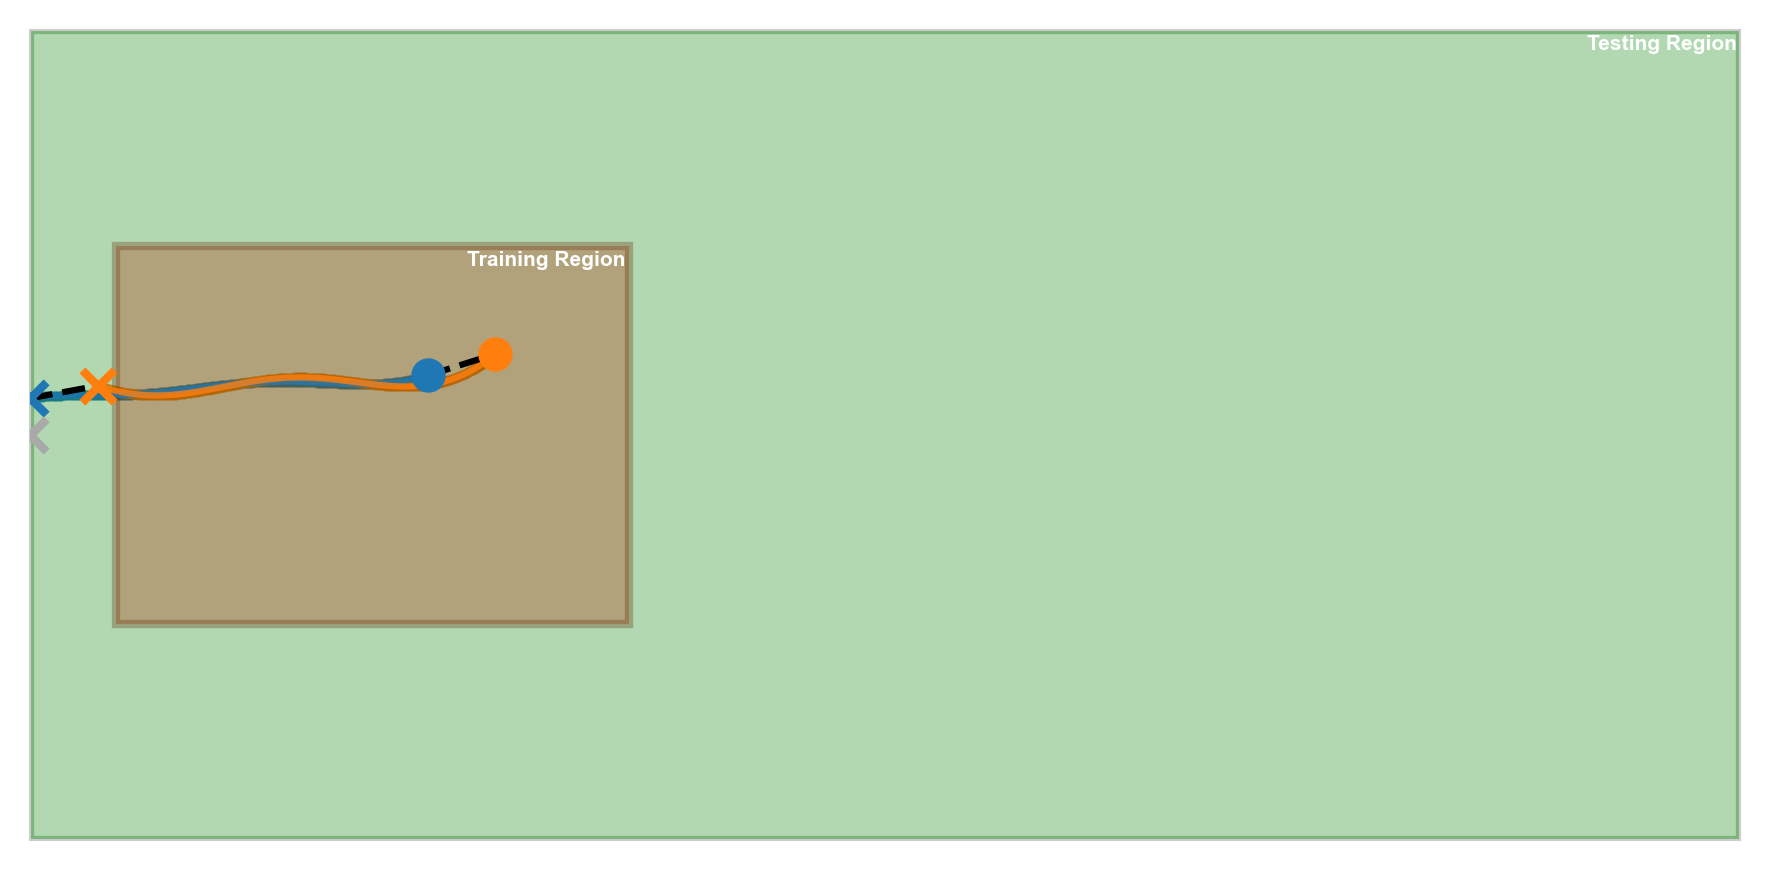
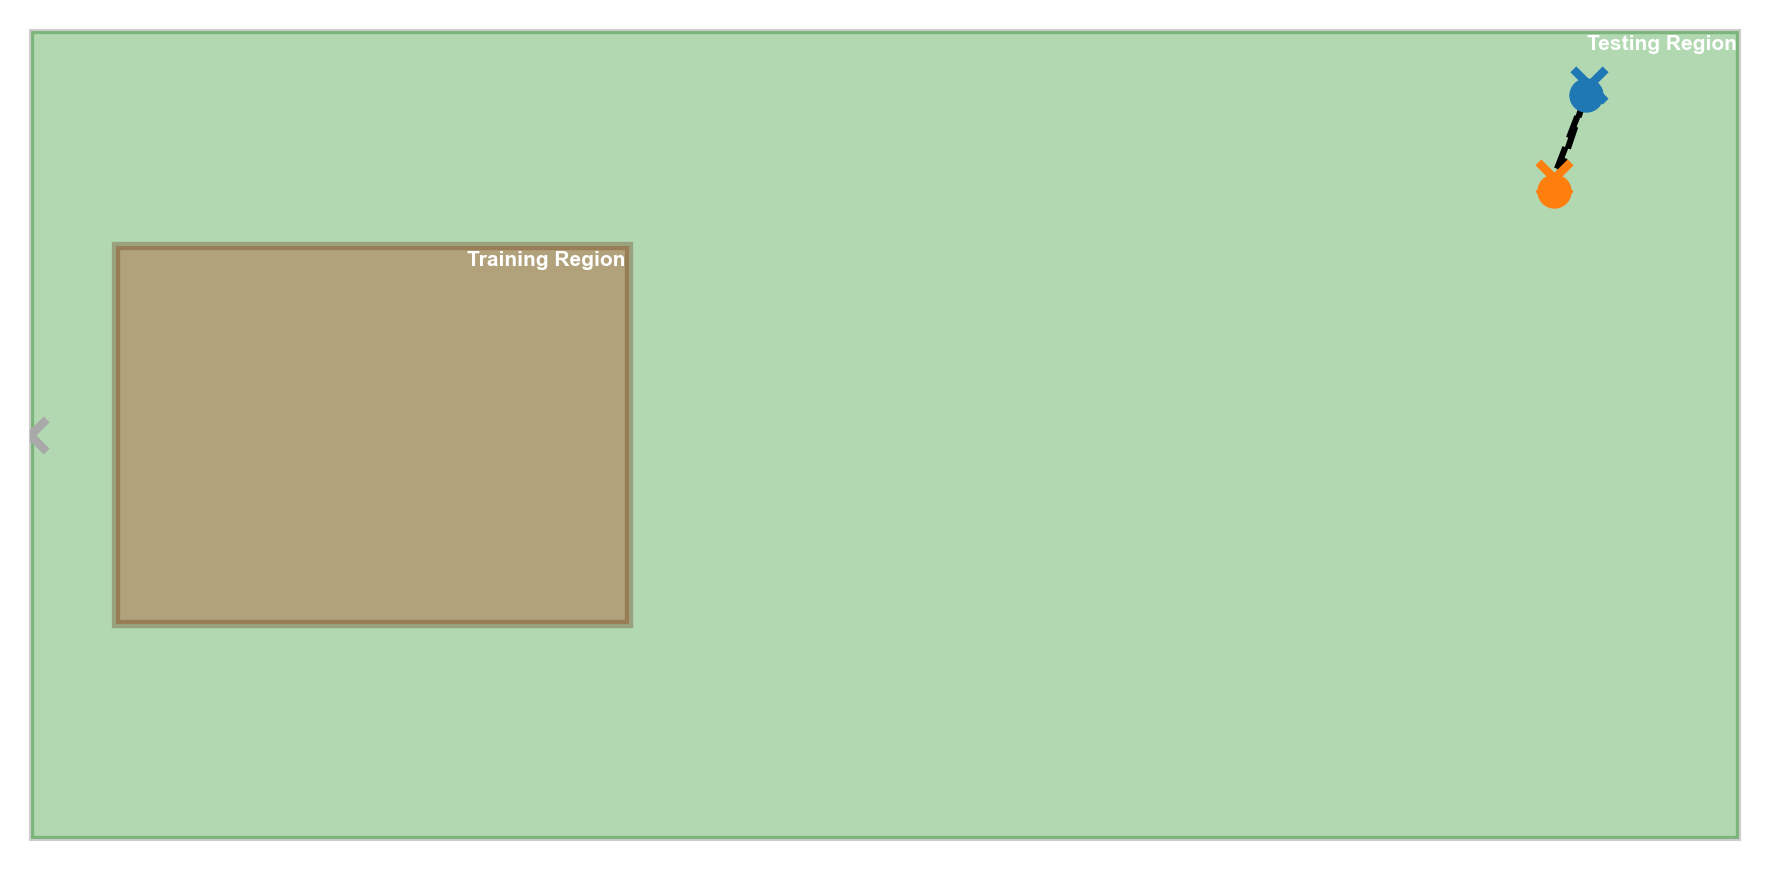
README and trajectories are updated

Changed region(s): [[0.0, 0.3724, 0.3107, 0.4655], [0.8701, 0.0621, 0.9322, 0.2483]]

diff --git a/README.md b/README.md
@@ -65,9 +65,10 @@ To test the models outside the training region, run:
 
 ```bash
 python truck-backer-upper.py\
+    --env_x_range 0 100\
+    --env_y_range -15 15\
     --test_x_cab_range 70 90\
-    --test_y_cab_range -15 15\
-    --env_x_range 0 100
+    --test_y_cab_range -10 10
 ```
 
 To train both emulator and controller models, run:
